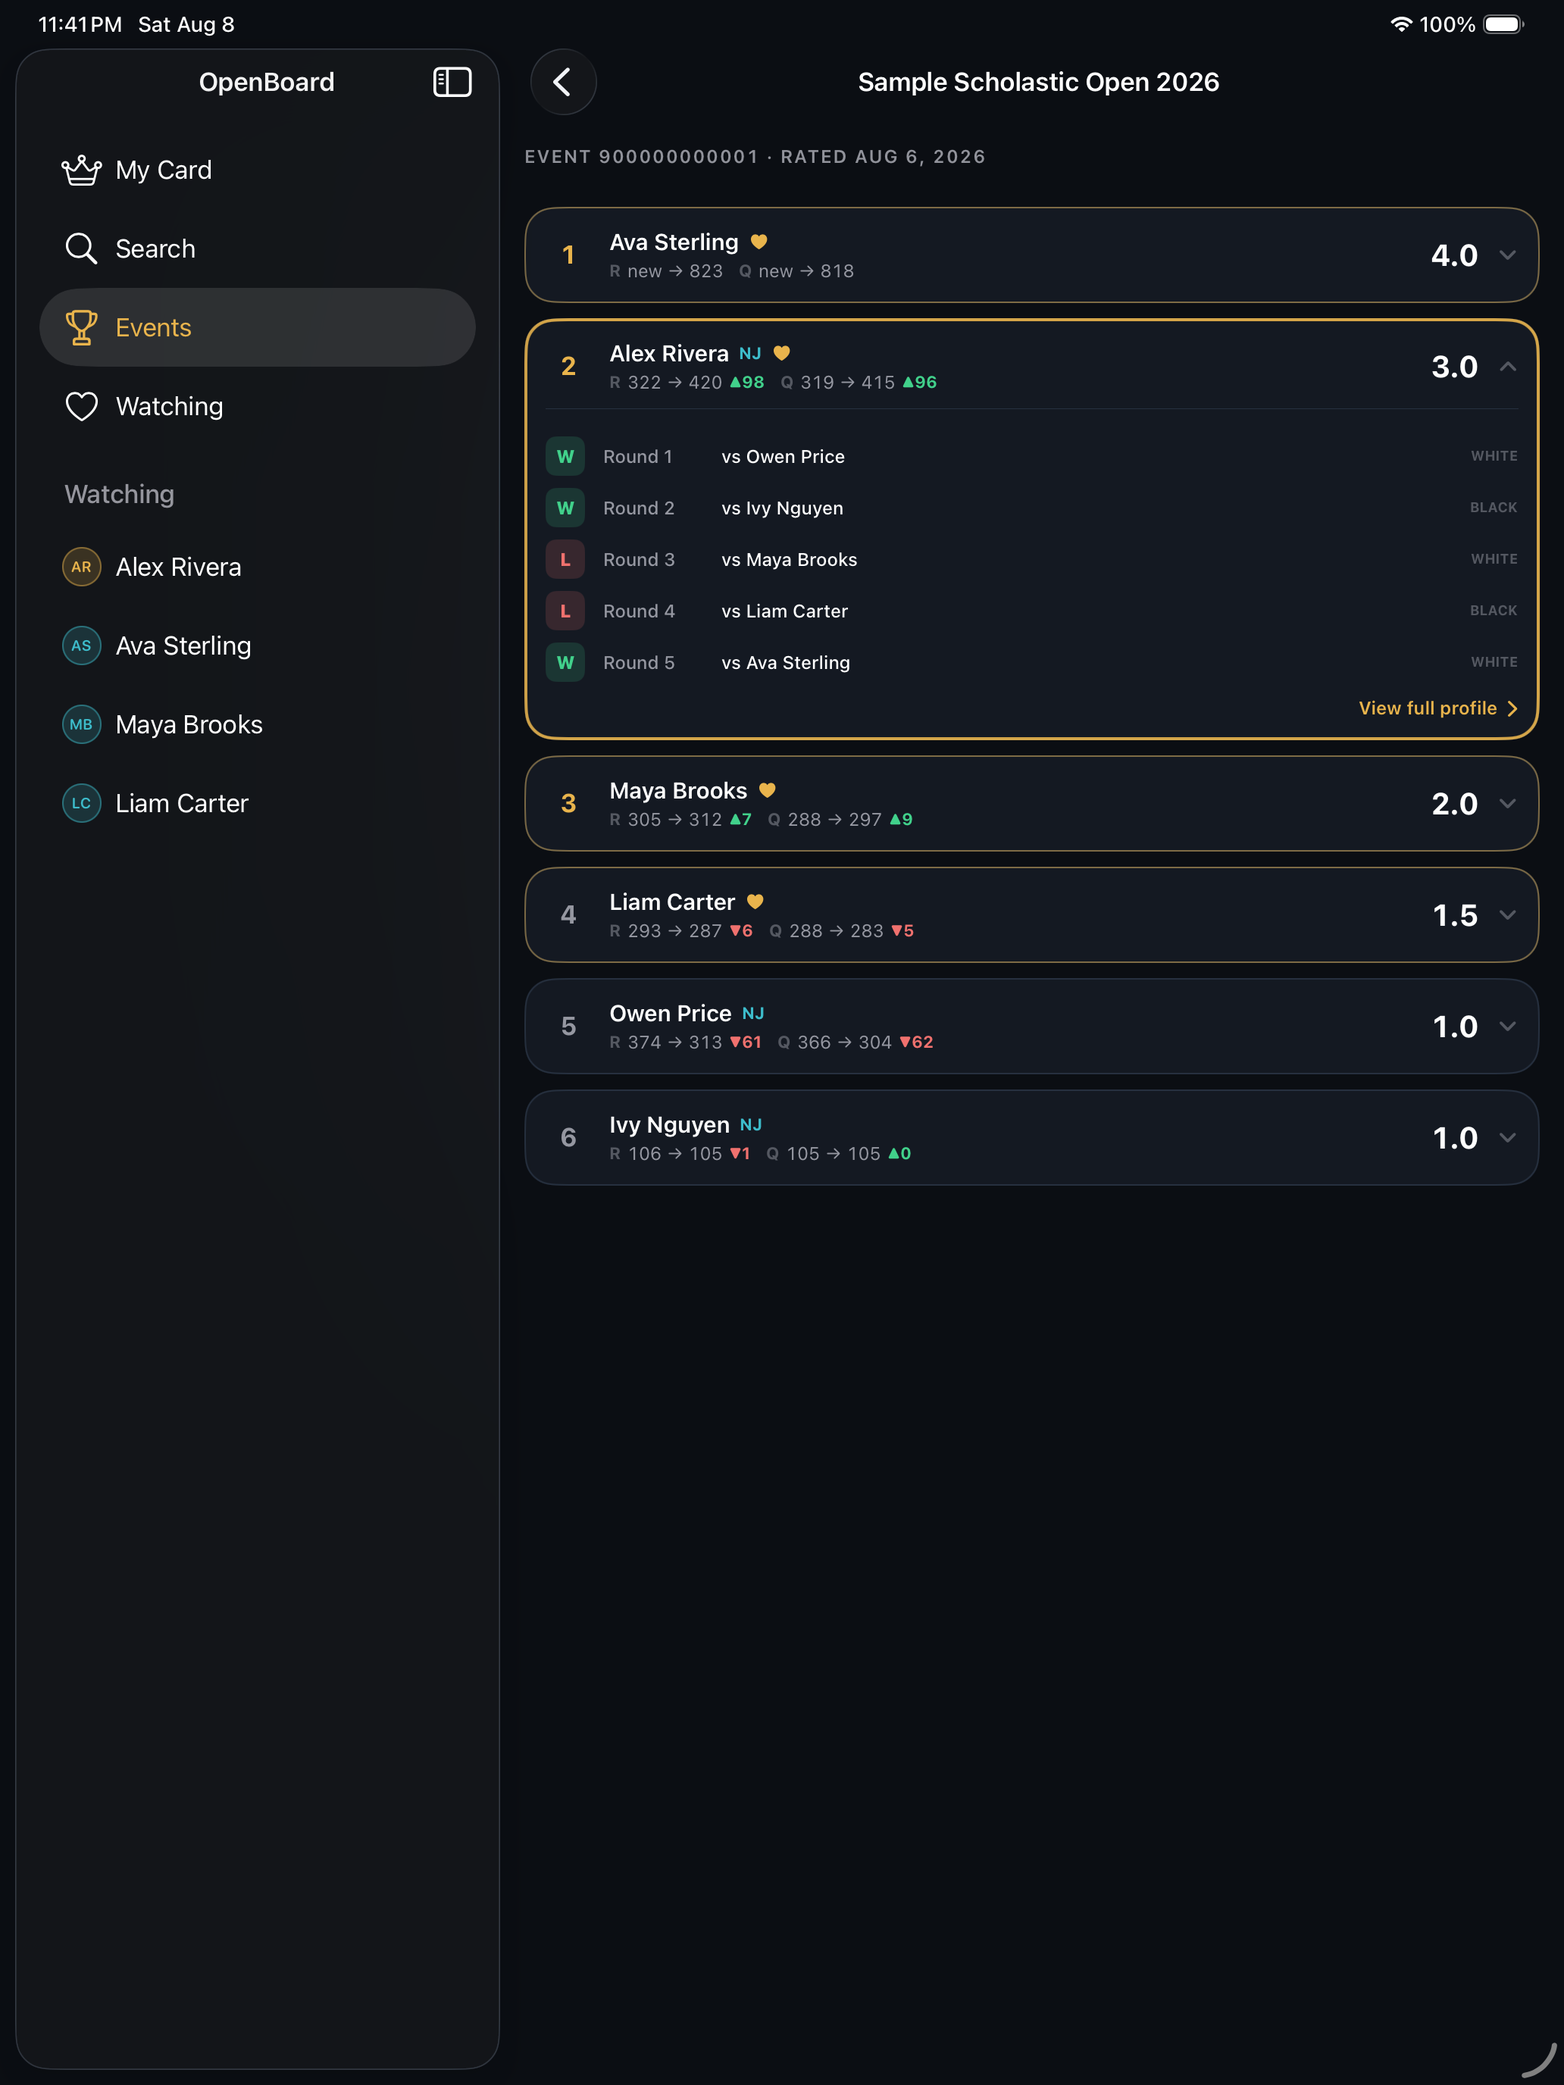
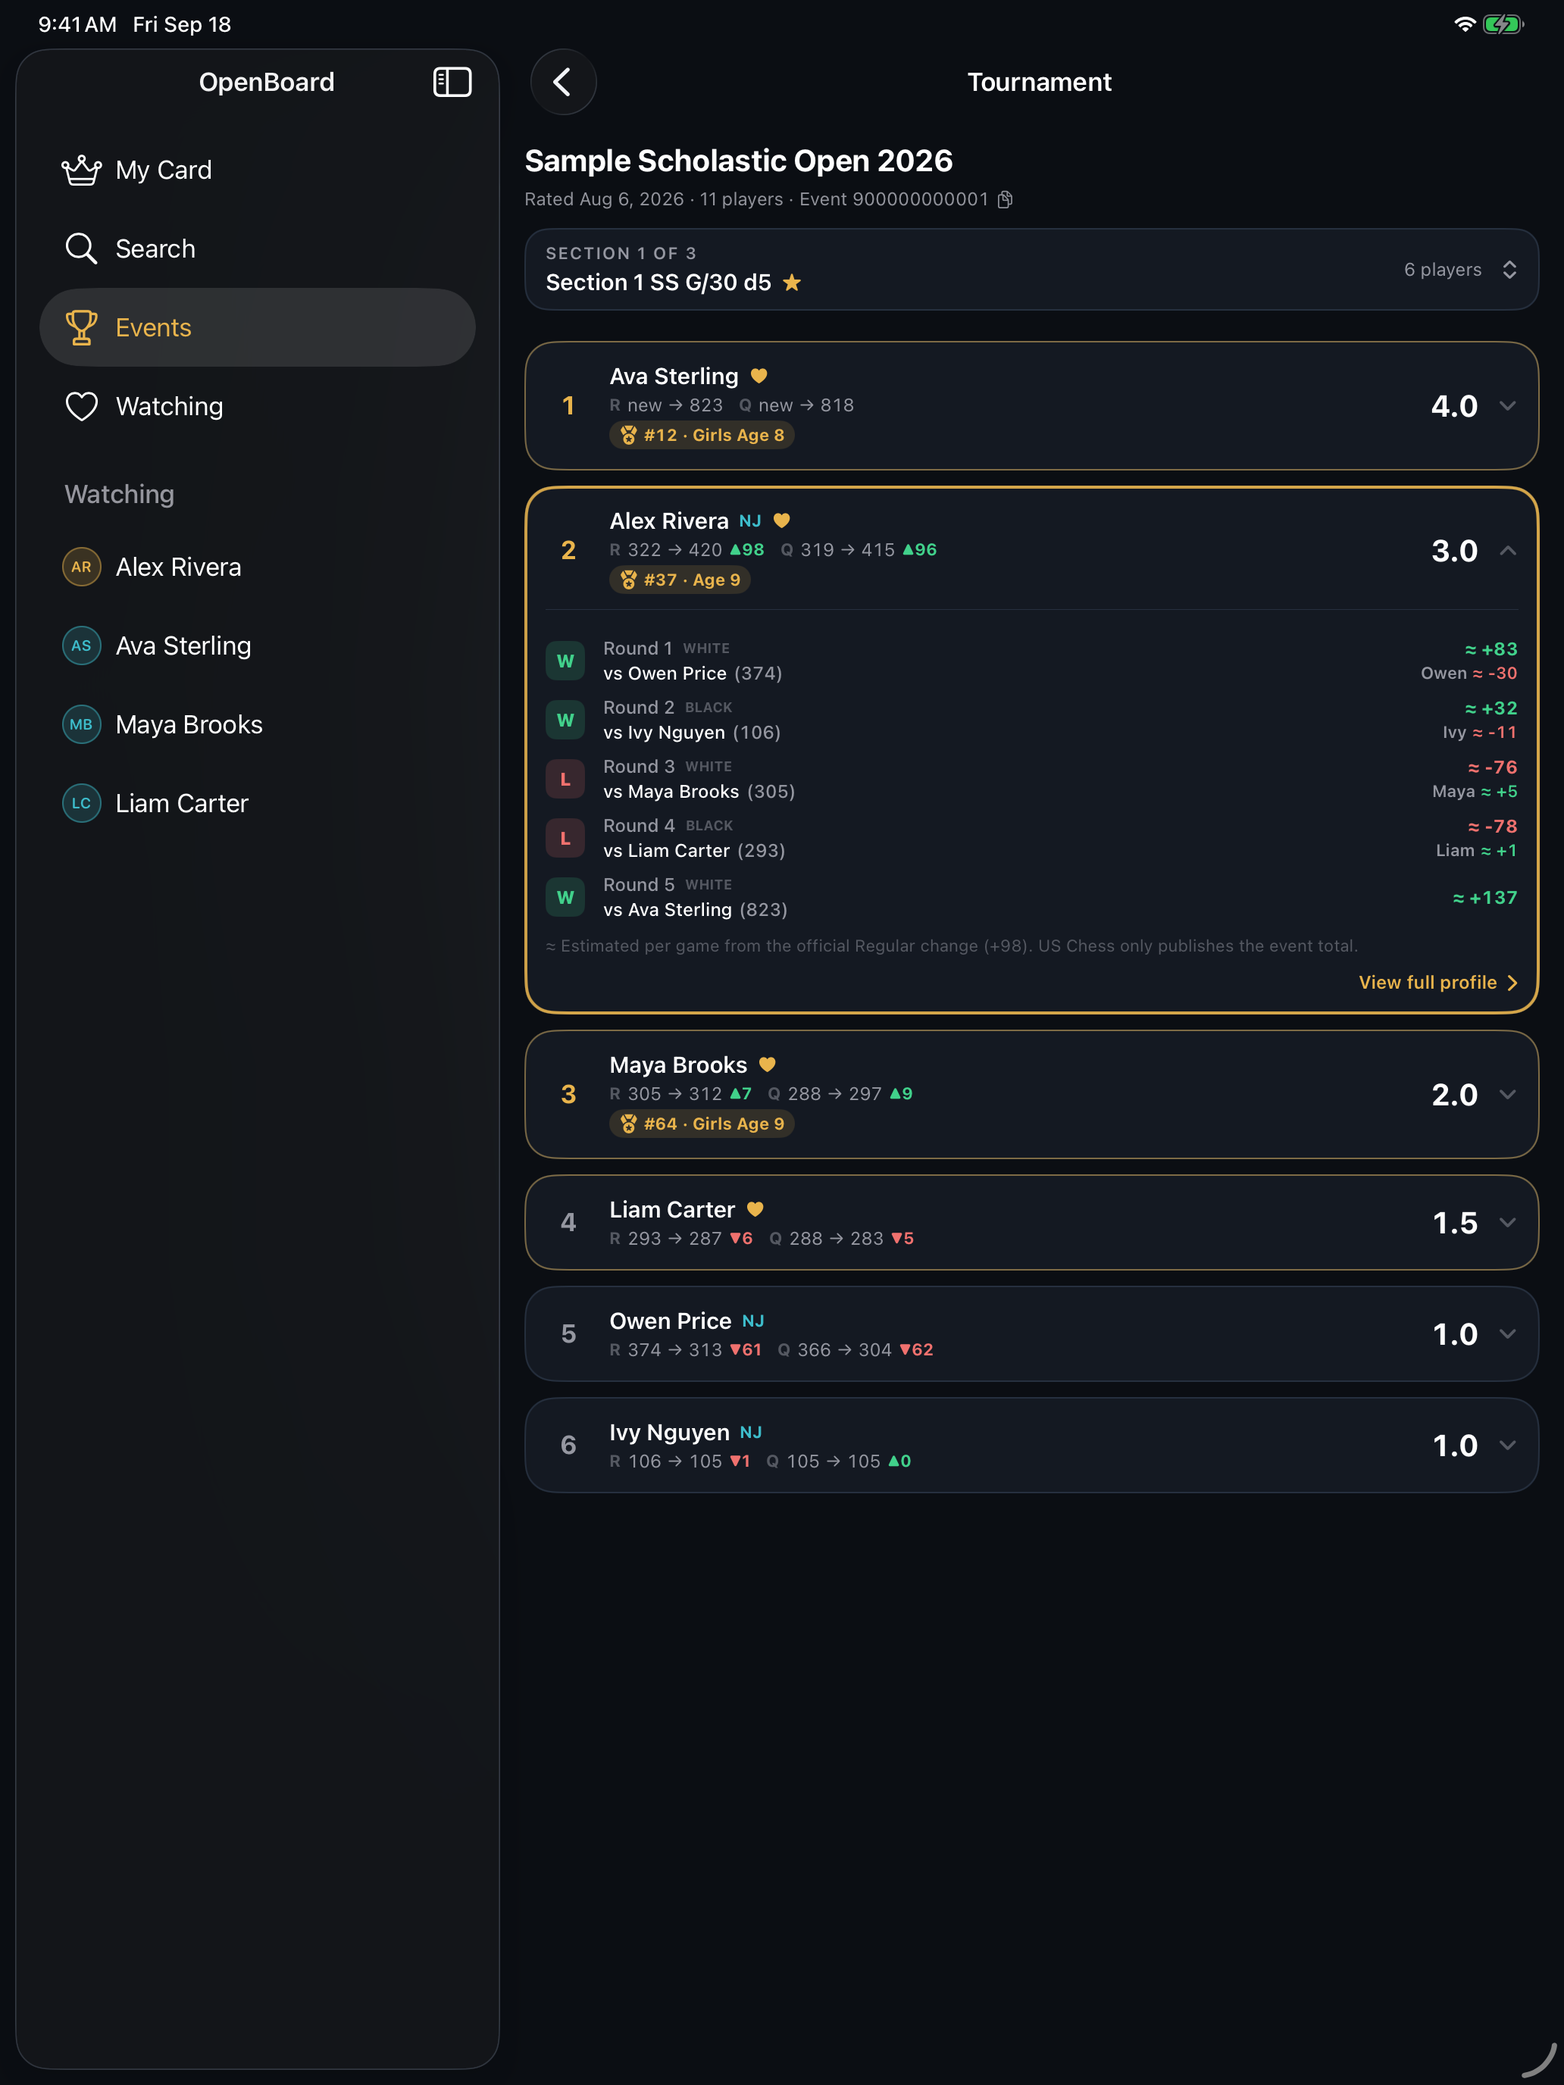
docs: refresh README and screenshots for the new features
- "What is OpenBoard?" rewritten for Rating History, crosstable section
  picker + per-round estimates, Upcoming tournaments, Top 100 by age and
  badges; usage steps, data sources, API/website endpoints, architecture,
  tests and future features updated.
- Screenshots regenerated in demo mode (synthetic data only) on iPhone 17 Pro
  and iPad Pro 13": 9 replaced, 7 new (history, upcoming, tournament, top100).
- Fix: tournament score no longer wraps ("3." / "0") when a player's
  name/ratings column is wide.

diff --git a/OpenBoard/Views/CrosstableView.swift b/OpenBoard/Views/CrosstableView.swift
@@ -380,6 +380,7 @@ struct StandingRow: View {
             Text(standing.points)
                 .font(.title3.weight(.bold))
                 .monospacedDigit()
+                .fixedSize() // never wrap "3.0" when the name column is wide
                 .foregroundStyle(.primary)
 
             if canExpand {

diff --git a/README.md b/README.md
@@ -14,9 +14,10 @@
 </p>
 
 <p align="center">
-  <img src="Screenshots/iphone-mycard.png" width="220">
-  <img src="Screenshots/iphone-event.png" width="220">
-  <img src="Screenshots/iphone-watchlist.png" width="220">
+  <img src="Screenshots/iphone-mycard.png" width="200">
+  <img src="Screenshots/iphone-history.png" width="200">
+  <img src="Screenshots/iphone-event.png" width="200">
+  <img src="Screenshots/iphone-upcoming.png" width="200">
 </p>
 
 ---
@@ -25,24 +26,43 @@
 
 The official US Chess app is an event check-in tool, and the ratings website
 (ratings.uschess.org — **MUIR**) is slow on mobile. OpenBoard is a native client
-that makes tracking [**US Chess (USCF)**](https://new.uschess.org) ratings fast and
-delightful:
+that makes following [**US Chess (USCF)**](https://new.uschess.org) ratings — and
+finding the next tournament to play — fast and delightful:
 
 - **♛ My Card** — your player's ratings as glowing chess-clock digits, with a rating
-  sparkline and recent events.
+  line, a "just rated" banner, national + state rank, and recent events.
+- **📈 Rating History** — tap any rating card to see every rated event as a chart:
+  each tournament is a dot, **green if the rating went up, red if it went down, gray
+  if unchanged**. Filter by Regular / Quick, number of events, time period, or result;
+  every event opens its crosstable. Loads a player's **entire** career, not just
+  recent events.
+- **🏆 Crosstables** — full event and section names, a section picker for big
+  events, and rating changes on every row. **Tap a player to see each round** — the
+  opponent, their rating, and an **estimated rating change for both players**
+  (US Chess only publishes the event total; estimates always add up to it).
+- **🗺 Upcoming tournaments** — US Chess tournaments **near you** (25 / 50 / 100 /
+  200 mi, this weekend / 30 days / 3 months, scholastic / quads / Grand Prix) plus
+  nationwide **major events**. Each tournament shows the date and weekday, a venue
+  map with **directions**, a **Register** button, the full announcement, and
+  organizer contacts.
+- **🏅 Top 100 by age** — browse US Chess's monthly Top 100 lists (age 7 & under
+  through 18, girls, 50+, 65+; Regular / Quick / Blitz; your state only). Players on
+  a list get a badge like **#37 · Age 9** everywhere they appear — My Card,
+  profiles, Watching, search results, and tournament standings.
 - **🔍 Search** — one field for players (name or 8-digit member ID) and tournaments
-  (12-digit event ID).
-- **📈 Player profiles** — Regular / Quick / Blitz, **live vs published** ratings side
-  by side, USCF class title, national + state ranking, and full event history.
-- **🏆 Crosstables** — standings with rating changes on every row; **tap a player to
-  see who they faced and each result**.
-- **❤ Watchlist** — follow your kid, rivals, and teammates; get a local notification
+  (12-digit event ID), plus a shortcut to the Top 100 lists.
+- **👤 Player profiles** — Regular / Quick / Blitz, **live vs published** ratings side
+  by side, USCF class title, rankings, full event history, and a tap-to-copy
+  member ID.
+- **❤ Watching** — follow your kid, rivals, and teammates; get a local notification
   when a followed player's rating changes.
 
 Built with **SwiftUI**, **Swift 6**, **SwiftData**, and the iOS 26 **Liquid Glass**
 material language. Universal (iPhone + iPad), with **zero third-party dependencies**.
 
-> **Data source:** ratings come from US Chess's **MUIR** platform (built by Leago).
+> **Data sources:** ratings come from US Chess's **MUIR** platform (built by Leago);
+> upcoming tournaments come from US Chess's **Tournament Life Announcements** and
+> **Plan Ahead Calendar** on [new.uschess.org](https://new.uschess.org/upcoming-tournaments).
 > &nbsp;·&nbsp; [US Chess](https://new.uschess.org)
 > &nbsp;·&nbsp; [Ratings site](https://ratings.uschess.org)
 > &nbsp;·&nbsp; [What is MUIR?](https://new.uschess.org/news/introducing-muir-member-uploads-information-and-reporting)
@@ -96,11 +116,21 @@ modes — the UI only ever sees the domain models.
    becomes your **My Card** home screen.
 2. **Follow rivals & friends.** Watch more players — they appear under **Watching**.
    Long-press a row → *Make primary* to switch whose card is shown.
-3. **Open a tournament.** Go to **Events**, paste a 12-digit event ID, and open the
-   crosstable. **Tap any row** to expand a player's round-by-round games (opponents +
-   results). Followed players are outlined in gold and auto-scrolled to.
-4. **Track changes.** OpenBoard polls followed players in the background and fires a
-   local notification when a rating updates. Pull to refresh anytime.
+3. **See the whole journey.** Tap the rating card on My Card or any profile to open
+   **Rating History** — every event as a green/red/gray dot, with filters.
+4. **Open a tournament.** Tap any event (or go to **Events → Results** and paste a
+   12-digit event ID). Pick a section from the section picker, then **tap any row**
+   to see each round with estimated rating changes for both players. Followed
+   players are outlined in gold and auto-scrolled to.
+5. **Find the next tournament.** **Events → Upcoming → Near me** lists US Chess
+   tournaments around your current location (or a city/ZIP you type). Tap one for
+   the map, directions, and the **Register** link. **Major events** lists national
+   championships and big-prize events nationwide.
+6. **Browse the Top 100.** **Search → Top 100 lists** shows the best players by age,
+   girls, and seniors — or just your state. Badges like **#37 · Age 9** show up next
+   to ranked players everywhere in the app.
+7. **Track changes.** OpenBoard polls followed players in the background and fires a
+   local notification when a rating updates.
 
 No account or sign-in. Reads fully from cache when offline, and ships a **zero-network
 demo mode** (`-mock` launch argument) with synthetic sample data.
@@ -150,6 +180,25 @@ All of these returned **200 with real JSON**:
 | Tournament (with section list) | `GET /rated-events/{eventId}` |
 | Section metadata | `GET /rated-events/{eventId}/sections/{number}` |
 | **Crosstable standings** (with round-by-round) | `GET /rated-events/{eventId}/sections/{number}/standings` |
+| Top 100 list catalog (age / gender / rating type) | `GET /top-players` |
+| One Top 100 list (monthly) | `GET /top-players/{listId}` |
+
+### Upcoming tournaments (new.uschess.org)
+
+MUIR only knows about events **after** they're rated, so upcoming tournaments come
+from the US Chess website, which isn't an API either — `TournamentParser` reads:
+
+| Purpose | Source |
+|---|---|
+| Search with **distance from a city/ZIP** | `new.uschess.org/upcoming-tournaments?field_geofield_proximity[value]=50&…[origin_address]=Somerville, NJ` (HTML, 30 per page) |
+| One announcement (dates, venue, coordinates, organizer, full text) | `new.uschess.org/{announcement-path}?_format=json` |
+| Major events nationwide | `new.uschess.org/plan-ahead-calendar` (HTML) |
+
+The site's event-type filter returns nothing and it has no date filter, so the
+**When** and **Type** filters run on the device. The device's location is turned into
+a city name with `MKReverseGeocodingRequest` (the search accepts a city or ZIP, not
+coordinates). Registration links are picked out of the announcement text; when
+there isn't one, the organizer's website is used.
 
 ### Actual JSON shapes
 
@@ -203,6 +252,10 @@ the iPad's round-by-round pills.
   member-sections vs standings; the DTO exposes a unified `system` accessor.
 - **Percentiles aren't returned** — computed from `rank` + `/members/max-ranks`
   population totals (national = `76,379`; NJ = `2,711`).
+- **Pages are capped at 100.** A player's sections are fetched page by page until
+  `hasNextPage` is false — active juniors can have hundreds of rated sections.
+- **No ages or birth dates.** Being on a Top 100 age list is the only age signal, so
+  badges come from indexing the lists (`TopListsIndex`, cached 12 h).
 - **Score is numeric** (`4.0`, `2.5`); formatted to `"3.0"` display strings.
 - No auth is required; the app sends `User-Agent: OpenBoard-iOS/1.0`.
 
@@ -230,13 +283,18 @@ Lightweight **MV** (Model–View) — no view-model ceremony.
 ```
 OpenBoard/
 ├── App/            OpenBoardApp, AppModel (@Observable), RootView (tab vs split routing)
-├── Models/         Domain contract: Player, Ratings, ChessEvent, Standing, ClassTitle …
+├── Models/         Domain contract: Player, Ratings, ChessEvent, Standing, ClassTitle,
+│                   RoundRatingEstimator, UpcomingTournaments, TopLists …
 ├── Services/       RatingsProviding protocol + Live / Mock / Cached decorator,
 │                   USCFAPITypes (wire DTOs + mapper), CacheStore (SwiftData),
+│                   TournamentsService (new.uschess.org + TournamentParser),
+│                   TopListsIndex (Top 100 badges), LocationProvider,
 │                   RefreshScheduler (BGAppRefreshTask + notifications)
-├── Components/     Theme, ClockDigits, Sparkline, RatingCards, Badges, ShareCard, States
-└── Views/          MyCardView, SearchView, PlayerProfileView, CrosstableView,
-                    WatchlistView, EventsView
+├── Components/     Theme, ClockDigits, Sparkline, RatingCards, Badges, FilterChip,
+│                   ShareCard, States
+└── Views/          MyCardView, SearchView, PlayerProfileView, RatingHistoryView,
+                    CrosstableView, EventsView, UpcomingTournamentsView,
+                    TournamentDetailView, TopListsView, WatchlistView
 ```
 
 - **`RatingsProviding`** is the seam. `LiveRatingsService` (an `actor`) talks HTTP;
@@ -297,14 +355,20 @@ screenshot below.
 
 ```bash
 xcodebuild test -project OpenBoard.xcodeproj -scheme OpenBoard \
-  -destination 'platform=iOS Simulator,name=iPhone 16 Pro,OS=26.5'
+  -destination 'platform=iOS Simulator,name=iPhone 17 Pro,OS=26.5' \
+  GENERATE_INFOPLIST_FILE=YES   # the test targets don't set an Info.plist in project.yml
 ```
 
-- **Unit (Swift Testing, 15 tests / 4 suites):** decoding of **synthetic fixtures that
+- **Unit (Swift Testing, 31 tests / 7 suites):** decoding of **synthetic fixtures that
   mirror the real API shape** (member, sections, standings-with-rounds, search,
-  max-ranks), USCF class-title mapping (17 parameterized cases), delta math +
-  clock-digit formatting, and cache TTL logic (fresh/stale/miss + stale-served-on-failure).
-- **UI (XCTest):** search → player profile → crosstable happy path on the mock service.
+  max-ranks, Top 100 lists), USCF class-title mapping (17 parameterized cases), delta
+  math + clock-digit formatting, cache TTL logic, **per-round rating estimates**
+  (rounds add up to the official change; byes/new players skipped), **upcoming
+  tournament parsing** against saved US Chess pages, the **Top 100 badge index**, and
+  multi-page loading.
+- **UI (XCTest, 6 tests, mock service):** search → profile → crosstable; My Card →
+  Rating History → crosstable; another player's profile → Rating History; section
+  picker; Upcoming → tournament detail; Search → Top 100 → profile badge.
 
 All green on the iOS 26.5 simulator.
 
@@ -315,17 +379,21 @@ All green on the iOS 26.5 simulator.
 - ✅ Flips to live data by changing one `AppEnvironment` flag — **and the probe
   succeeded, so live is already the default.**
 - ✅ Unit + UI tests pass.
-- ✅ Dark-mode screenshots of every screen on iPhone 16 Pro and iPad Pro 13".
+- ✅ Dark-mode screenshots of every screen on iPhone 17 Pro and iPad Pro 13".
 
 ## 📱 Screenshots
 
 > Shown with synthetic sample data — no real member's information is used.
 
-### iPhone 16 Pro
+### iPhone 17 Pro
 
-| My Card | Player profile | Crosstable (tap to expand) | Watchlist | Search |
+| My Card | Rating History | Player profile | Crosstable (tap to expand) |
+|:---:|:---:|:---:|:---:|
+| ![My Card](Screenshots/iphone-mycard.png) | ![Rating History](Screenshots/iphone-history.png) | ![Profile](Screenshots/iphone-profile.png) | ![Crosstable](Screenshots/iphone-event.png) |
+
+| Upcoming near me | Tournament detail | Top 100 by age | Watching | Search |
 |:---:|:---:|:---:|:---:|:---:|
-| ![My Card](Screenshots/iphone-mycard.png) | ![Profile](Screenshots/iphone-profile.png) | ![Crosstable](Screenshots/iphone-event.png) | ![Watchlist](Screenshots/iphone-watchlist.png) | ![Search](Screenshots/iphone-search.png) |
+| ![Upcoming](Screenshots/iphone-upcoming.png) | ![Tournament](Screenshots/iphone-tournament.png) | ![Top 100](Screenshots/iphone-top100.png) | ![Watching](Screenshots/iphone-watchlist.png) | ![Search](Screenshots/iphone-search.png) |
 
 ### iPad Pro 13"  ·  `NavigationSplitView`
 
@@ -337,8 +405,15 @@ supports Slide Over, Split View, and Stage Manager.
   <img alt="iPad Player profile" src="Screenshots/ipad-profile.png" width="49%">
 </p>
 <p align="center">
+  <img alt="iPad Rating History" src="Screenshots/ipad-history.png" width="49%">
   <img alt="iPad Crosstable" src="Screenshots/ipad-event.png" width="49%">
-  <img alt="iPad Watchlist" src="Screenshots/ipad-watchlist.png" width="49%">
+</p>
+<p align="center">
+  <img alt="iPad Upcoming tournaments" src="Screenshots/ipad-upcoming.png" width="49%">
+  <img alt="iPad Tournament detail" src="Screenshots/ipad-tournament.png" width="49%">
+</p>
+<p align="center">
+  <img alt="iPad Watching" src="Screenshots/ipad-watchlist.png" width="49%">
 </p>
 
 ---
@@ -354,9 +429,8 @@ supports Slide Over, Split View, and Stage Manager.
 Not built yet — candidates inspired by similar trackers:
 - Head-to-head compare between two watched players.
 - Rating projection / "what a result would do to your rating" estimator.
-- Per-variant history charts (Quick/Blitz), not just Regular.
-- Affiliate/club pages and event discovery (the MUIR API exposes `/affiliates` and
-  `/rated-events`), replacing the placeholder that used to live on the Watchlist.
+- Affiliate/club pages (the MUIR API exposes `/affiliates`).
+- Add a tournament to Calendar; save favorite tournaments.
 
 ---
 
